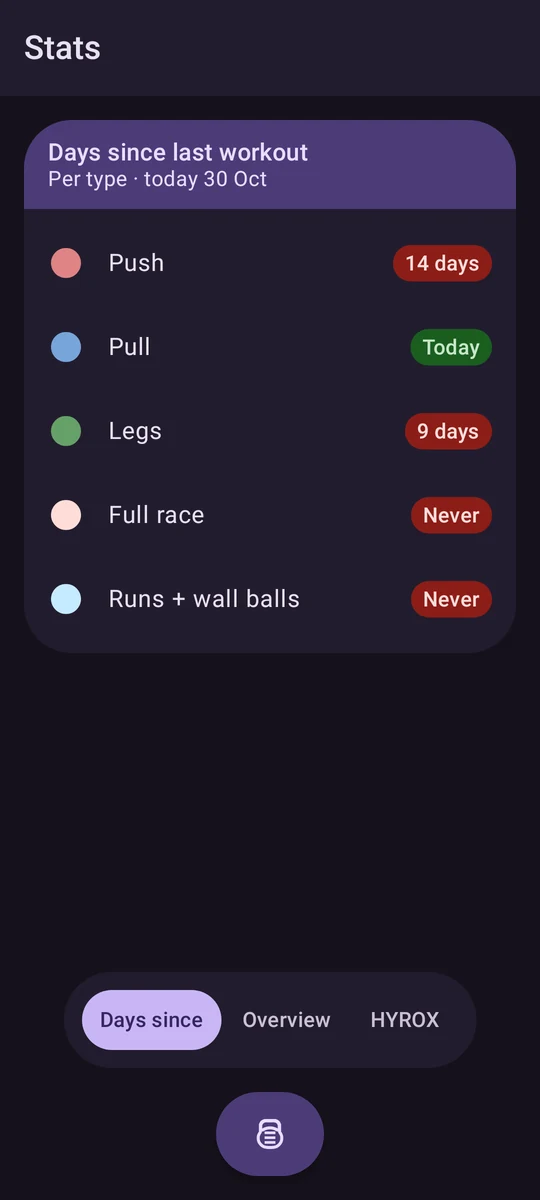
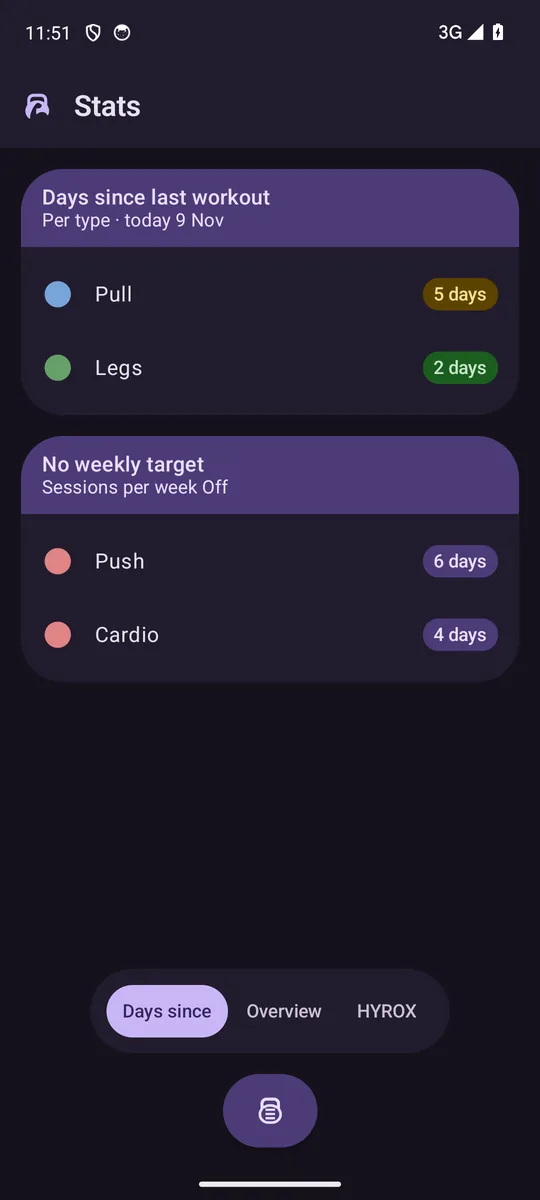
Help: 2.7.9 screenshots for One-handed Calendar, One-handed Stats and Days since
Replace the three demo captures and match their captions. Days since is 540×1200.

diff --git a/help/index.html b/help/index.html
@@ -222,8 +222,8 @@
     <li><strong>Swipe up</strong> to go to the next tab: Days since → Overview → HYROX → Progress → Days since. Long tabs scroll normally first; the tab only changes when you keep swiping up at the bottom. The toggle follows.</li>
   </ol>
   <figure>
-    <img src="images/help-stats-days-since.webp" alt="Stats Days since tab: Days since last workout for types with a weekly target, and a separate No weekly target card subtitled Sessions per week Off, never logged first" loading="lazy" width="540" height="806" />
-    <figcaption>Stats opens on Days since, longest first (never logged, then the most days). Types with a weekly target stay on <strong>Days since last workout</strong>. Types set to Off are on <strong>No weekly target</strong>, subtitled <strong>Sessions per week Off</strong>, with purple chips. HYROX colours are unchanged.</figcaption>
+    <img src="images/help-stats-days-since.webp" alt="Stats Days since in normal mode, kettlebell at the top left: Days since last workout with Pull at 5 days and Legs at 2 days, and No weekly target subtitled Sessions per week Off with Push at 6 days and Cardio at 4 days" loading="lazy" width="540" height="1200" />
+    <figcaption>Normal mode: the kettlebell stays at the top left. Pull and Legs stay on <strong>Days since last workout</strong> (yellow at 5 days, green at 2). Push and Cardio, set to Off, are on <strong>No weekly target</strong>, subtitled <strong>Sessions per week Off</strong>, with purple chips.</figcaption>
   </figure>
   <h3>Progress (Advanced bodybuilding)</h3>
   <ol class="steps">
@@ -305,8 +305,8 @@
     <figcaption>The menu opens from the bottom.</figcaption>
   </figure>
   <figure>
-    <img src="images/help-one-handed-stats.webp" alt="Stats in one-handed mode: Liftloq logo at the top left, the title centred, and the Days since, Overview and HYROX tabs above a centred kettlebell menu button" loading="lazy" width="540" height="1200" />
-    <figcaption>Stats: the Liftloq logo is at the top left and the title stays centred. The menu button sits below the tabs.</figcaption>
+    <img src="images/help-one-handed-stats.webp" alt="Stats in one-handed mode: Liftloq logo at the top left, Days since last workout and No weekly target cards, Days since, Overview and HYROX tabs, and a centred kettlebell menu button below them" loading="lazy" width="540" height="1200" />
+    <figcaption>One-handed mode: the Liftloq logo is at the top left. <strong>Days since last workout</strong> and <strong>No weekly target</strong> (Sessions per week Off) sit above the tabs. The menu button sits below them.</figcaption>
   </figure>
   <figure>
     <img src="images/help-card-order.webp" alt="Settings Card order section with up and down buttons for each card" loading="lazy" width="540" height="561" />
